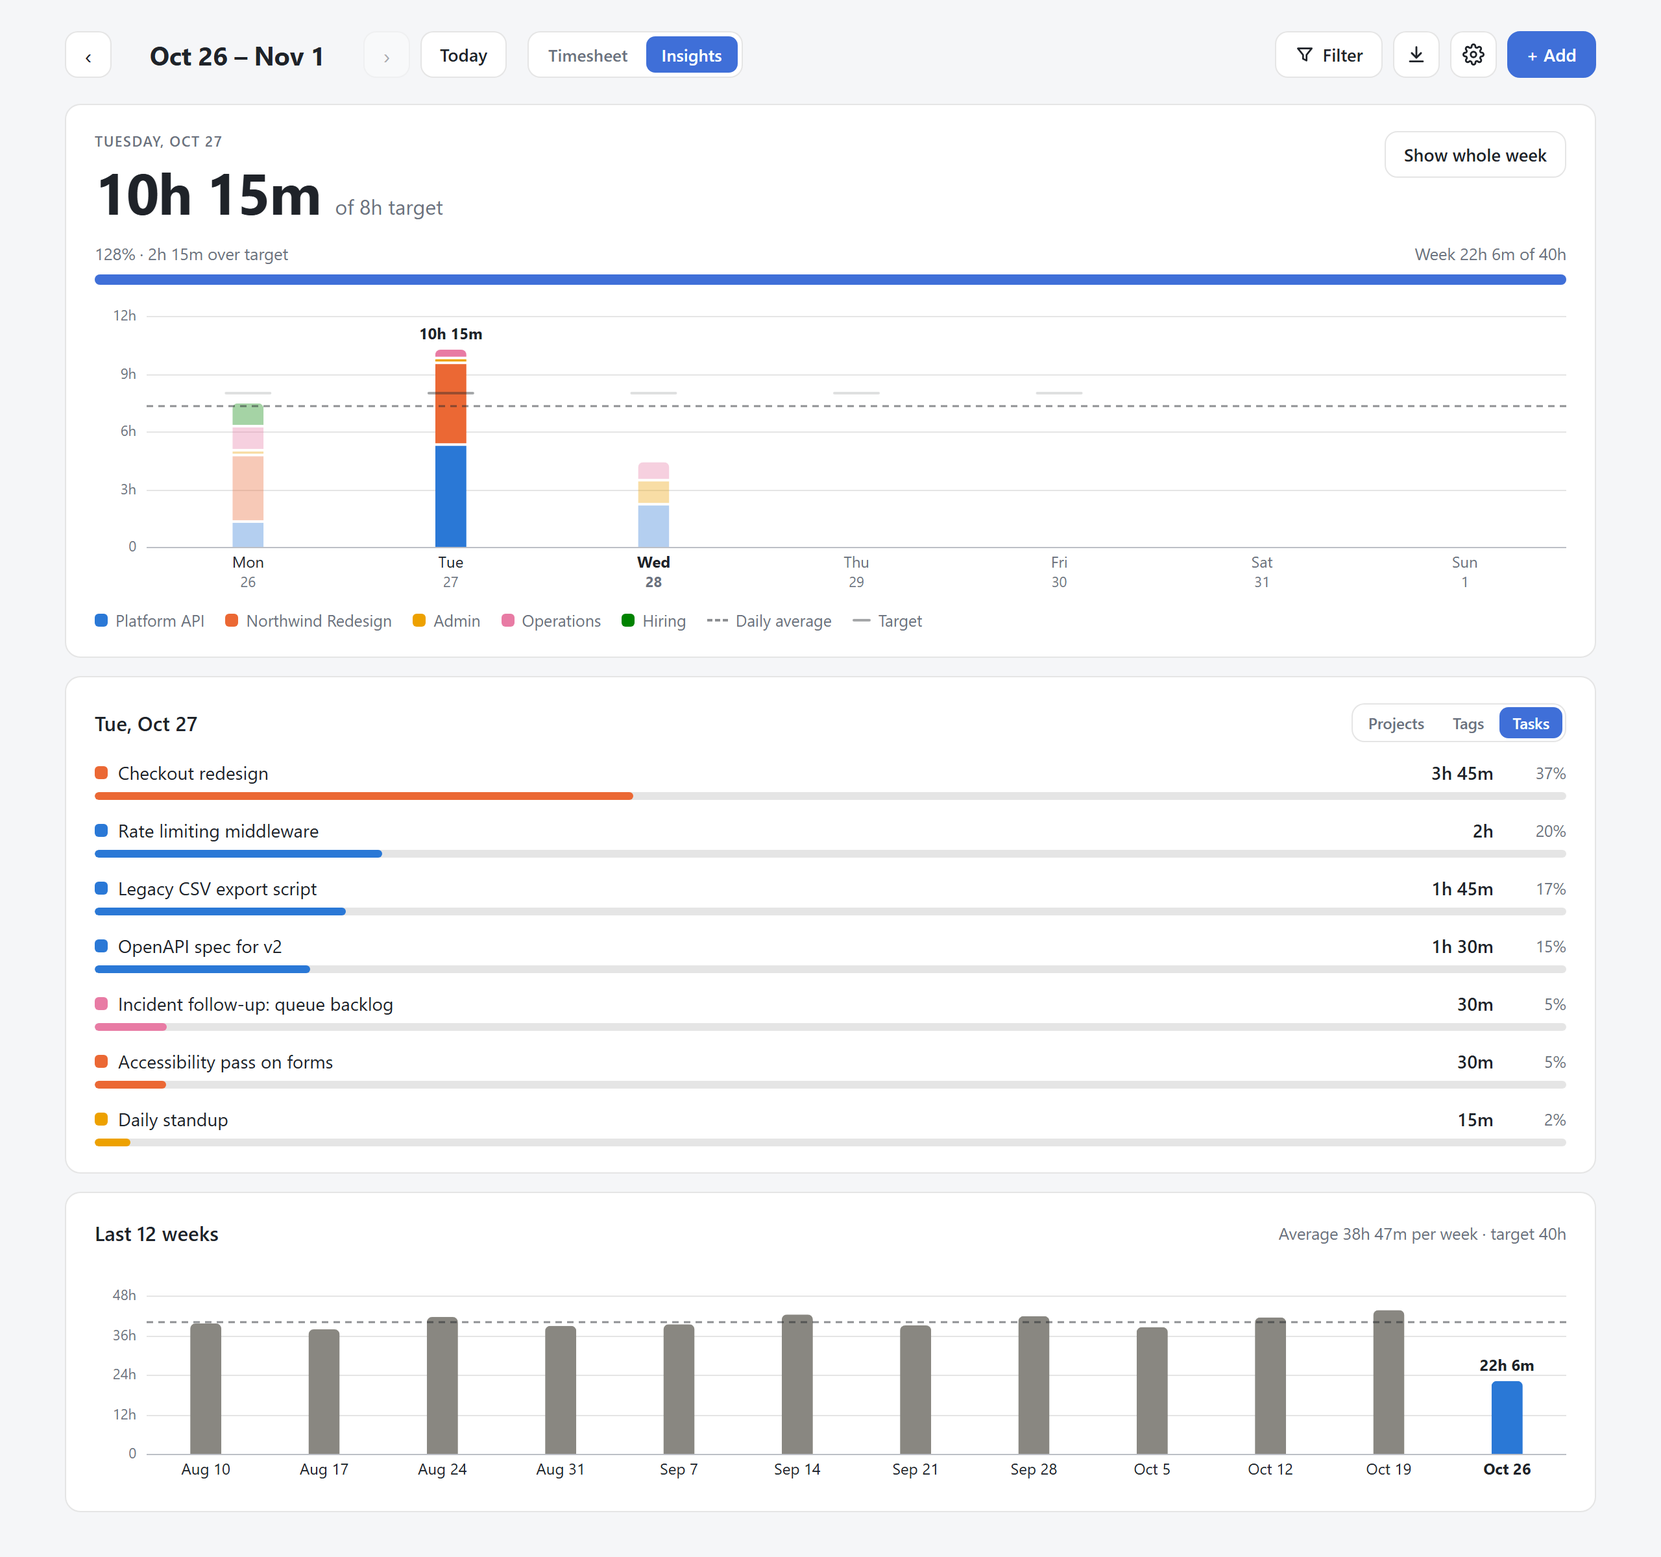
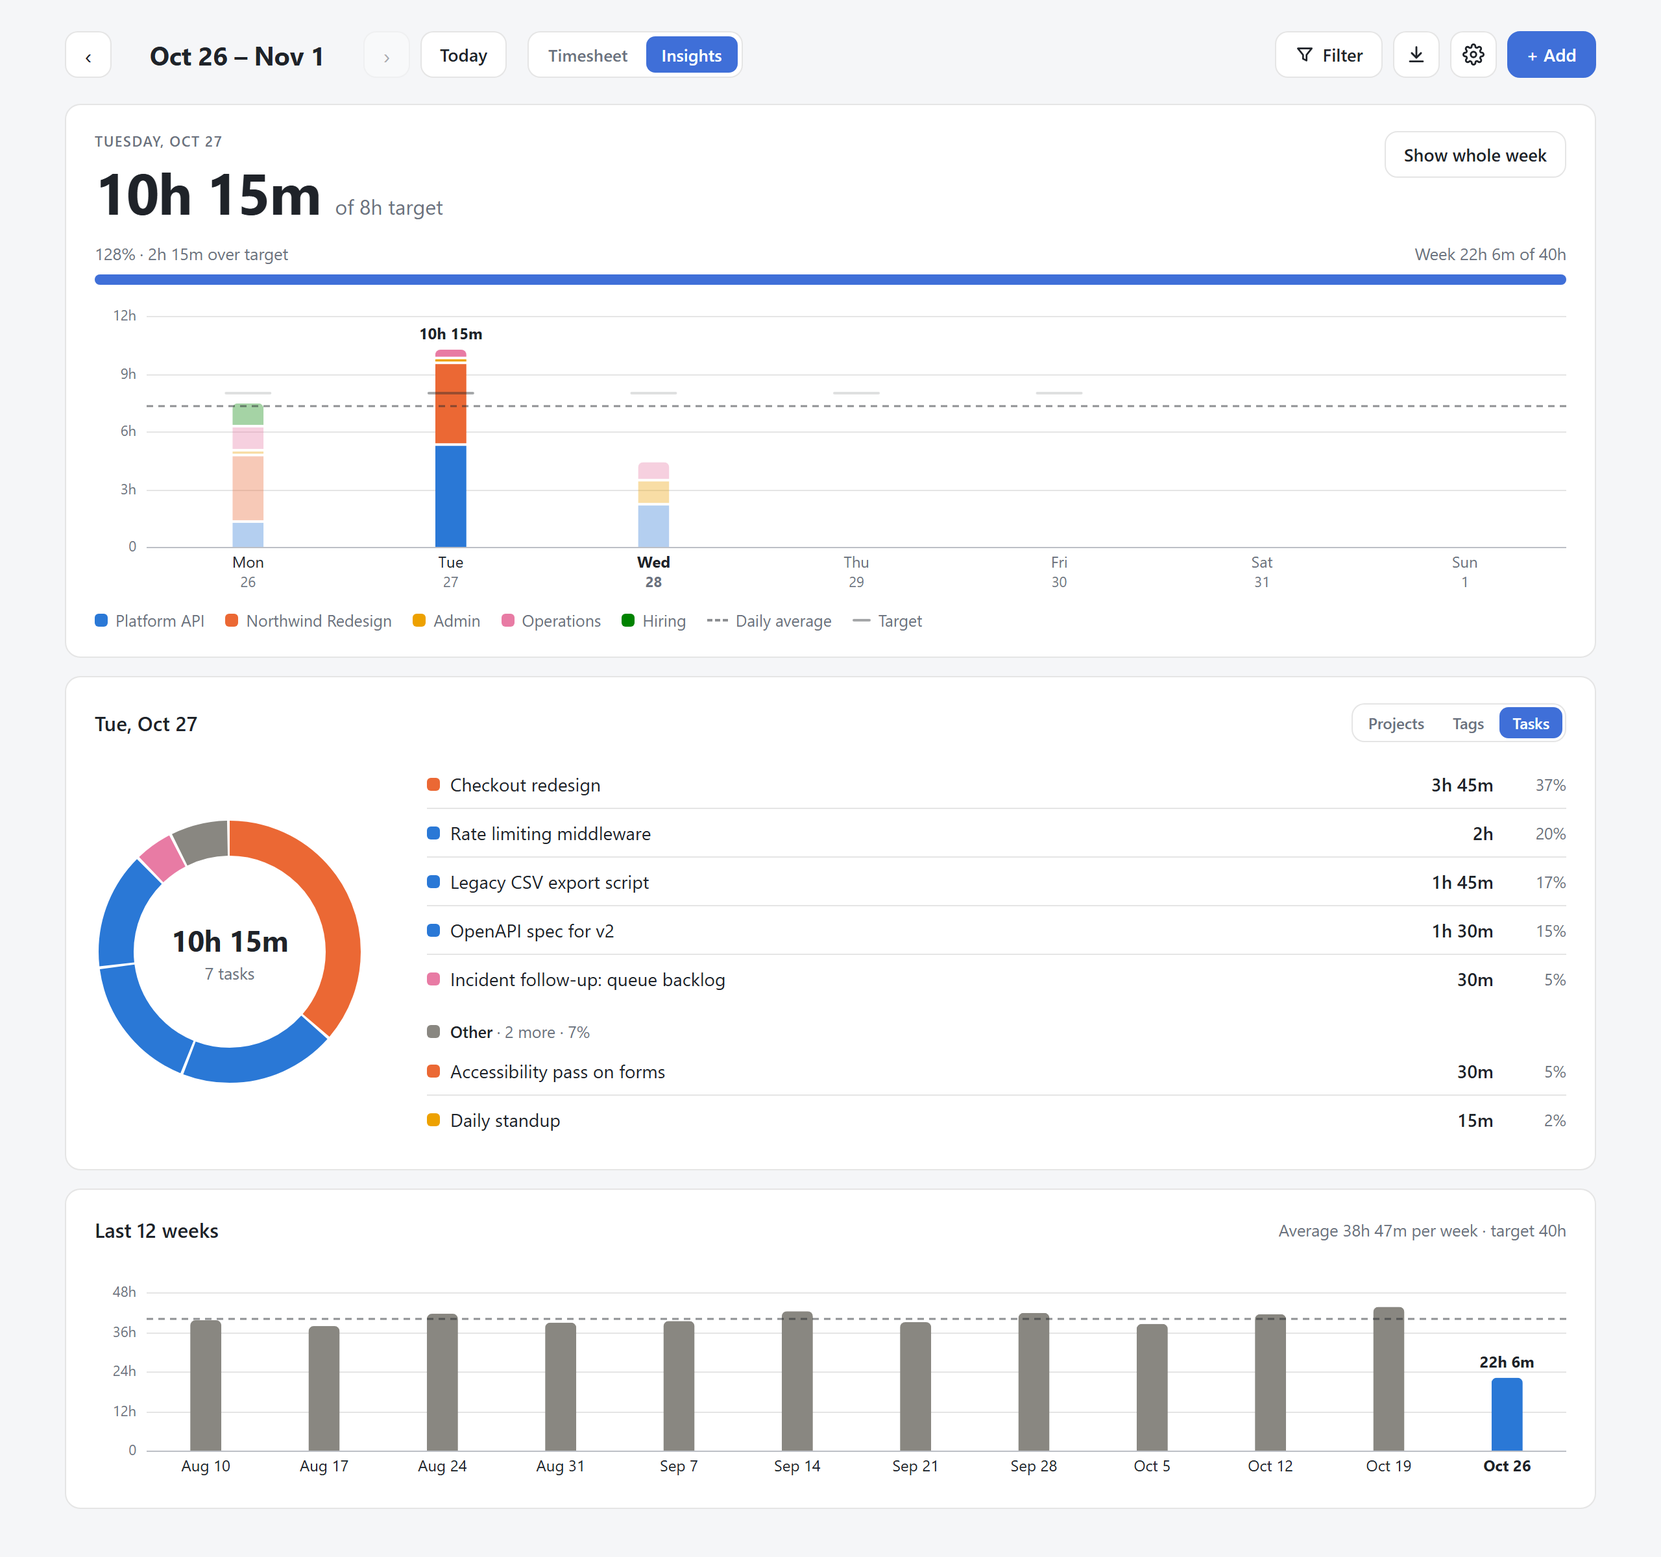
Show the Insights breakdown as a donut with its list as the legend
Projects and tasks are drawn as a donut with the total and item count in
the middle, and the list beside it becomes its legend (name, time, share;
no bars). Hovering a slice or a row lights up the other and shows that
item's time and share in the middle; on touch, a tap toggles a slice.

At most six slices: the five largest items, then an Other slice whose
items are listed under their own heading. Tags keep the bars, since a
task with several tags counts toward each and they don't add up to a
whole; a single item keeps its bar too. On phones the donut stacks above
the list.

core.donutSlices decides the split and is tested. The README screenshots
and text show the donut. Version 2.1.0.

diff --git a/src/app.js b/src/app.js
@@ -842,31 +842,69 @@
     if (refocusTrend >= 0 || trendHover >= 0) trendCtl.setHover(refocusTrend >= 0 ? refocusTrend : trendHover);
   };
 
+  // The breakdown donut: its chart and the item key behind each slice. The
+  // hovered slice is kept as a key, so it survives a redraw.
+  const DONUT_SIZE = 208;
+  const OTHER_SLICE = '\0other';
+  let donut = null;
+  let donutHoverKey = null;
+
+  // Lights up the list rows of slice i (-1 for none) and dims the rest.
+  const hoverSlice = (i) => {
+    donutHoverKey = i >= 0 && donut ? donut.keys[i] : null;
+    const list = $('breakdownList');
+    list.classList.toggle('is-linking', i >= 0);
+    for (const el of list.querySelectorAll('[data-slice]')) el.classList.toggle('is-linked', Number(el.dataset.slice) === i);
+  };
+
   const renderBreakdown = (bd, slots, day) => {
     const by = state.settings.breakdownBy;
     $('breakdownTitle').textContent = day ? C.formatDayHeading(day.date) : weekTitle();
     for (const btn of document.querySelectorAll('[data-by]')) btn.setAttribute('aria-checked', String(btn.dataset.by === by));
     $('breakdownNote').hidden = !(by === 'tag' && bd.overlapping);
 
+    // A donut shows parts of one whole. Tags can overlap (a task with two tags
+    // counts toward both) and a single item is the whole, so those keep bars.
+    const withDonut = by !== 'tag' && bd.items.length > 1;
+    $('breakdownBody').classList.toggle('has-donut', withDonut);
+    $('breakdownList').classList.toggle('has-donut', withDonut);
+    $('breakdownDonut').hidden = !withDonut;
+    if (!withDonut) {
+      donut = null;
+      $('breakdownDonut').replaceChildren();
+    }
+
     if (!bd.items.length) {
       $('breakdownList').replaceChildren(h('div', { class: 'ts-muted ts-small', text: 'No time tracked' }));
       return;
     }
+    const colorOf = (item) => (by === 'tag' ? 'var(--ts-series-1)' : seriesColor(slots, by === 'project' ? item.key : item.projectKey));
+    const labelOf = (item) => (by === 'project' ? projectName(item.key)
+      : by === 'tag' && item.key !== C.NO_TAG ? item.label || (state.tagsById[item.key] || {}).title || 'Unnamed tag'
+        : item.label);
+    const share = (ms) => (bd.total ? (ms / bd.total) * 100 : 0);
+    const shareText = (ms) => (share(ms) > 0 && share(ms) < 1 ? '<1%' : `${Math.round(share(ms))}%`);
+    const { own, otherMs, otherCount } = withDonut ? C.donutSlices(bd.items) : { own: bd.items.length, otherMs: 0, otherCount: 0 };
+
     const shown = state.breakdownExpanded ? bd.items : bd.items.slice(0, BREAKDOWN_LIMIT);
-    const rows = shown.map((item) => {
-      const color = by === 'tag' ? 'var(--ts-series-1)' : seriesColor(slots, by === 'project' ? item.key : item.projectKey);
-      const label = by === 'project' ? projectName(item.key)
-        : by === 'tag' && item.key !== C.NO_TAG ? item.label || (state.tagsById[item.key] || {}).title || 'Unnamed tag'
-          : item.label;
-      const pct = bd.total ? (item.ms / bd.total) * 100 : 0;
-      return h('div', { class: 'ts-bd-row' },
+    const rows = [];
+    shown.forEach((item, index) => {
+      // The items that share the Other slice are listed under its own heading.
+      if (withDonut && index === own) {
+        rows.push(h('div', { class: 'ts-bd-group', dataset: { slice: own } },
+          h('span', { class: 'ts-swatch', style: { background: 'var(--ts-series-other)' } }),
+          h('span', {}, h('b', { text: 'Other' }), ` · ${otherCount} more · ${shareText(otherMs)}`)));
+      }
+      const color = colorOf(item);
+      const label = labelOf(item);
+      rows.push(h('div', { class: 'ts-bd-row', dataset: withDonut ? { slice: Math.min(index, own) } : null },
         h('div', { class: 'ts-bd-name' },
           by !== 'tag' && h('span', { class: 'ts-swatch', style: { background: color } }),
           h('span', { class: 'ts-bd-label', text: label, title: label })),
         h('div', { class: 'ts-bd-time', text: fmt(item.ms) }),
-        h('div', { class: 'ts-bd-pct', text: pct > 0 && pct < 1 ? '<1%' : `${Math.round(pct)}%` }),
-        h('div', { class: 'ts-bd-track', 'aria-hidden': 'true' },
-          h('div', { class: 'ts-bd-fill', style: { width: `${Math.min(100, pct)}%`, background: color } })));
+        h('div', { class: 'ts-bd-pct', text: shareText(item.ms) }),
+        !withDonut && h('div', { class: 'ts-bd-track', 'aria-hidden': 'true' },
+          h('div', { class: 'ts-bd-fill', style: { width: `${Math.min(100, share(item.ms))}%`, background: color } }))));
     });
     if (bd.items.length > BREAKDOWN_LIMIT) {
       rows.push(h('button', {
@@ -877,6 +915,28 @@
       }));
     }
     $('breakdownList').replaceChildren(...rows);
+    if (!withDonut) return;
+
+    const slices = bd.items.slice(0, own).map((item) => ({ ms: item.ms, color: colorOf(item), label: labelOf(item) }));
+    if (otherCount) slices.push({ ms: otherMs, color: 'var(--ts-series-other)', label: 'Other' });
+    const [one, many] = by === 'task' ? ['task', 'tasks'] : ['project', 'projects'];
+    const count = bd.items.length;
+    donut = {
+      keys: slices.map((_, i) => (i < own ? bd.items[i].key : OTHER_SLICE)),
+      ctl: TimesheetCharts.donutChart($('breakdownDonut'), {
+        size: DONUT_SIZE,
+        slices,
+        center: (i) => (i < 0
+          ? { value: fmt(bd.total), label: `${count} ${count === 1 ? one : many}` }
+          : { value: fmt(slices[i].ms), label: slices[i].label, note: shareText(slices[i].ms) }),
+        ariaLabel: `Time by ${one}: ${slices.map((s) => `${s.label} ${shareText(s.ms)}`).join(', ')}`,
+        onHover: hoverSlice,
+      }),
+    };
+    // Put a hover back after a redraw (a running timer redraws every minute).
+    const restore = donutHoverKey == null ? -1 : donut.keys.indexOf(donutHoverKey);
+    donut.ctl.setHover(restore);
+    hoverSlice(restore);
   };
 
   // The filters sit in a popover, so the button shows what's active: a count,
@@ -1274,6 +1334,19 @@
       if (!e.target.closest('[data-action="toggle-breakdown"]')) return;
       state.breakdownExpanded = !state.breakdownExpanded;
       renderInsights();
+    });
+    // Hovering a row lights up its slice, as hovering a slice lights up its rows.
+    $('breakdownList').addEventListener('pointerover', (e) => {
+      if (!donut || e.pointerType === 'touch') return;
+      const el = e.target.closest('[data-slice]');
+      const i = el ? Number(el.dataset.slice) : -1;
+      donut.ctl.setHover(i);
+      hoverSlice(i);
+    });
+    $('breakdownList').addEventListener('pointerleave', (e) => {
+      if (!donut || e.pointerType === 'touch') return;
+      donut.ctl.setHover(-1);
+      hoverSlice(-1);
     });
     $('showWeekBtn').addEventListener('click', () => {
       state.chartSelected = null;

diff --git a/src/charts.js b/src/charts.js
@@ -216,5 +216,108 @@ const TimesheetCharts = (() => {
     };
   };
 
-  return { columnChart };
+  /**
+   * Draws a donut into `host`, replacing what was there: slices clockwise from
+   * 12 o'clock with a surface gap between them, and text in the middle that
+   * describes the whole or the hovered slice.
+   *
+   * opts:
+   *   size                outer diameter (px)
+   *   slices              [{ ms, color }]
+   *   center(i)           { value, label, note } for the middle; i = -1 for the whole
+   *   ariaLabel           the chart in words
+   *   onHover(i)          i = -1 when the pointer leaves
+   *
+   * Returns { setHover(i) } so a legend can light up its slice.
+   */
+  const donutChart = (host, opts) => {
+    const { size, slices } = opts;
+    const mid = size / 2;
+    const thickness = Math.round(size * 0.13);
+    const GROW = 3; // a hovered slice widens by this much on each side
+    const r = mid - thickness / 2 - GROW;
+    const circumference = 2 * Math.PI * r;
+    const total = slices.reduce((sum, s) => sum + s.ms, 0);
+
+    const root = svg('svg', { width: size, height: size, viewBox: `0 0 ${size} ${size}`, class: 'ts-svg' });
+    const ring = svg('g', { transform: `rotate(-90 ${mid} ${mid})` });
+    let start = 0;
+    const arcs = slices.map((slice) => {
+      const len = total > 0 ? (slice.ms / total) * circumference : 0;
+      const gap = slices.length > 1 ? Math.min(GAP, len / 2) : 0;
+      const arc = svg('circle', {
+        class: 'ts-slice',
+        cx: mid,
+        cy: mid,
+        r,
+        fill: 'none',
+        style: `stroke:${slice.color}`,
+        'stroke-width': thickness,
+        'stroke-dasharray': `${len - gap} ${circumference}`,
+        'stroke-dashoffset': -start,
+      });
+      start += len;
+      return arc;
+    });
+    ring.append(...arcs);
+    root.append(ring);
+
+    const el = (cls) => Object.assign(document.createElement('div'), { className: cls });
+    const wrap = el('ts-donut');
+    wrap.style.width = wrap.style.height = `${size}px`;
+    wrap.setAttribute('role', 'img');
+    wrap.setAttribute('aria-label', opts.ariaLabel);
+    const middle = el('ts-donut-center');
+    middle.setAttribute('aria-hidden', 'true');
+    middle.style.padding = `0 ${Math.round(thickness + GROW + 10)}px`;
+    const value = el('ts-donut-value');
+    const label = el('ts-donut-label');
+    const note = el('ts-donut-note');
+    middle.append(value, label, note);
+    wrap.append(root, middle);
+
+    let hovered = -1;
+    const setHover = (i) => {
+      if (hovered >= 0 && arcs[hovered]) {
+        arcs[hovered].classList.remove('is-hover');
+        arcs[hovered].setAttribute('stroke-width', thickness);
+      }
+      hovered = arcs[i] ? i : -1;
+      wrap.classList.toggle('is-hover', hovered >= 0);
+      if (hovered >= 0) {
+        arcs[hovered].classList.add('is-hover');
+        arcs[hovered].setAttribute('stroke-width', thickness + GROW * 2);
+      }
+      const text = opts.center(hovered);
+      value.textContent = text.value;
+      label.textContent = text.label;
+      note.textContent = text.note || '';
+      note.hidden = !text.note;
+    };
+    const hover = (i) => {
+      setHover(i);
+      if (opts.onHover) opts.onHover(hovered);
+    };
+
+    // Mouse hover; on touch, a tap shows a slice and a second tap clears it.
+    let lastPointer = '';
+    arcs.forEach((arc, i) => {
+      arc.addEventListener('pointerdown', (e) => { lastPointer = e.pointerType; });
+      arc.addEventListener('pointerenter', (e) => {
+        if (e.pointerType !== 'touch') hover(i);
+      });
+      arc.addEventListener('click', () => {
+        if (lastPointer === 'touch') hover(hovered === i ? -1 : i);
+      });
+    });
+    root.addEventListener('pointerleave', (e) => {
+      if (e.pointerType !== 'touch') hover(-1);
+    });
+
+    setHover(-1);
+    host.replaceChildren(wrap);
+    return { setHover };
+  };
+
+  return { columnChart, donutChart };
 })();

diff --git a/src/styles.css b/src/styles.css
@@ -374,9 +374,47 @@ button { cursor: pointer; }
 .ts-bd-fill { height: 100%; border-radius: 999px; transition: width 0.3s ease; }
 .ts-bd-more { justify-self: start; }
 
+/* With a donut, the list is its legend: no bars, a divider between rows. */
+.ts-bd-body.has-donut { display: grid; grid-template-columns: auto minmax(0, 1fr); gap: 48px; align-items: center; }
+.ts-breakdown.has-donut { gap: 0; }
+.ts-breakdown.has-donut .ts-bd-row { padding: 9px 0; }
+.ts-breakdown.has-donut .ts-bd-row + .ts-bd-row { border-top: 1px solid var(--ts-divider); }
+.ts-breakdown.has-donut .ts-bd-more { margin-top: 10px; }
+.ts-bd-body + .ts-hint { margin: 14px 0 0; }
+.ts-bd-group { display: flex; align-items: center; gap: 8px; padding: 14px 0 4px; font-size: 0.78rem; color: var(--ts-muted); }
+.ts-bd-group b { font-weight: 600; color: var(--ts-text); }
+.ts-breakdown [data-slice] { transition: opacity 0.2s ease; }
+.ts-breakdown.is-linking [data-slice]:not(.is-linked) { opacity: 0.4; }
+
+.ts-donut { position: relative; }
+.ts-slice { transition: opacity 0.2s ease, stroke-width 0.15s ease; }
+.ts-donut.is-hover .ts-slice:not(.is-hover) { opacity: 0.35; }
+.ts-donut-center {
+  position: absolute;
+  inset: 0;
+  display: flex;
+  flex-direction: column;
+  align-items: center;
+  justify-content: center;
+  text-align: center;
+  pointer-events: none;
+}
+.ts-donut-value { font-size: 1.4rem; font-weight: 700; font-variant-numeric: tabular-nums; letter-spacing: -0.01em; }
+.ts-donut-label {
+  margin-top: 2px;
+  font-size: 0.8rem;
+  color: var(--ts-muted);
+  display: -webkit-box;
+  -webkit-line-clamp: 2;
+  -webkit-box-orient: vertical;
+  overflow: hidden;
+  overflow-wrap: anywhere;
+}
+.ts-donut-note { font-size: 0.8rem; font-weight: 600; font-variant-numeric: tabular-nums; }
+
 @media (prefers-reduced-motion: reduce) {
   .ts-grow { animation: none; }
-  .ts-col, .ts-col-band, .ts-bd-fill, .ts-progress-fill, .ts-goal-fill { transition: none; }
+  .ts-col, .ts-col-band, .ts-bd-fill, .ts-progress-fill, .ts-goal-fill, .ts-slice, .ts-breakdown [data-slice] { transition: none; }
 }
 
 /* ---------- Day cards ---------- */
@@ -591,6 +629,8 @@ button { cursor: pointer; }
   .ts-row > .ts-tags { display: none; }
   .ts-stats { gap: 20px; }
   .ts-card { padding: 16px 14px; }
+  .ts-bd-body.has-donut { grid-template-columns: minmax(0, 1fr); gap: 16px; justify-items: center; }
+  .ts-bd-body.has-donut .ts-breakdown { justify-self: stretch; }
   .ts-hero { font-size: 2.25rem; }
   /* Icon-only Filter and Add, so the view switch and actions share a row. */
   .ts-header { gap: 10px; }

diff --git a/src/core.js b/src/core.js
@@ -555,6 +555,16 @@ const TimesheetCore = (() => {
     return { total, overlapping, items: sorted };
   };
 
+  // A donut stays readable up to six slices: with more items, the first five
+  // (largest) get their own slice and the rest share one. `own` is how many
+  // items have their own slice; `otherMs` and `otherCount` describe the shared one.
+  const DONUT_SLICES = 6;
+  const donutSlices = (items, max = DONUT_SLICES) => {
+    const own = items.length > max ? max - 1 : items.length;
+    const rest = items.slice(own);
+    return { own, otherMs: rest.reduce((sum, item) => sum + item.ms, 0), otherCount: rest.length };
+  };
+
   // Axis maximum and ticks on readable hour steps (0, 2h, 4h, 6h...), with at
   // most `maxSteps` steps and at least 1h of range.
   const HOUR_STEPS = [0.25, 0.5, 1, 2, 3, 4, 6, 8, 12, 24, 48, 96];
@@ -1041,6 +1051,7 @@ const TimesheetCore = (() => {
     compareWithPreviousWeek,
     weekProgress,
     breakdown,
+    donutSlices,
     hourScale,
     buildCsv,
     encodeState,

diff --git a/src/index.html b/src/index.html
@@ -94,7 +94,10 @@
           <button type="button" role="radio" data-by="task">Tasks</button>
         </div>
       </div>
-      <div class="ts-breakdown" id="breakdownList"></div>
+      <div class="ts-bd-body" id="breakdownBody">
+        <div class="ts-bd-donut" id="breakdownDonut" hidden></div>
+        <div class="ts-breakdown" id="breakdownList"></div>
+      </div>
       <p class="ts-hint" id="breakdownNote" hidden>A task with several tags counts toward each of them, so these can add up to more than the total.</p>
     </section>
 

diff --git a/README.md b/README.md
@@ -5,7 +5,7 @@ A weekly timesheet and charts for the time you track in [Super Productivity](htt
 <picture>
   <source media="(prefers-color-scheme: dark)" srcset="docs/images/insights-dark.png">
   <source media="(prefers-color-scheme: light)" srcset="docs/images/insights-light.png">
-  <img alt="The Insights view: a week of tracked time as stacked columns by project, progress toward a 40-hour target, a breakdown by project, and weekly totals for the last 12 weeks." src="docs/images/insights-light.png">
+  <img alt="The Insights view: a week of tracked time as stacked columns by project, progress toward a 40-hour target, a donut of time by project with its list, and weekly totals for the last 12 weeks." src="docs/images/insights-light.png">
 </picture>
 
 <sub>Screenshots show a generated demo workload of nine projects over twelve weeks (see [Screenshots and demo data](#screenshots-and-demo-data)).</sub>
@@ -24,7 +24,7 @@ A weekly timesheet and charts for the time you track in [Super Productivity](htt
 
 - The week as one stacked column per day, colored by project, with a daily-average line and a mark at each day's target.
 - Progress toward the weekly target, with a pace marker that shows where you would be if every day so far had met its target. Alongside it: average per active day, time left to target, days on target, and the change against the previous week.
-- A breakdown of the week, or of one selected day, by project, tag or task.
+- A breakdown of the week, or of one selected day, by project, tag or task. Projects and tasks are shown as a donut with the list as its legend; hover a slice or a row to see its time and share.
 - Weekly totals for the last 12 weeks against the weekly target.
 
 **Throughout**
@@ -43,7 +43,7 @@ A weekly timesheet and charts for the time you track in [Super Productivity](htt
       <p><b>Timesheet.</b> Subtasks are listed under their parent. Manual entries and deleted tasks are labelled.</p>
     </td>
     <td width="50%" valign="top">
-      <img src="docs/images/day-selected-light.png" alt="Insights with Tuesday selected: the other days are faded and the breakdown lists the day's tasks.">
+      <img src="docs/images/day-selected-light.png" alt="Insights with Tuesday selected: the other days are faded and a donut with its list breaks the day down by task.">
       <p><b>A selected day.</b> The headline and breakdown switch to that day; here the breakdown is by task.</p>
     </td>
   </tr>

diff --git a/CHANGELOG.md b/CHANGELOG.md
@@ -1,5 +1,10 @@
 # Changelog
 
+## 2.1.0
+
+### Added
+- The Insights breakdown shows projects and tasks as a donut, with the total in the middle and the list beside it as its legend. Hovering a slice or a row lights up the other, and the middle shows that item's time and share; on a touchscreen, tap a slice. The five largest items get their own slice and the rest share an "Other" slice, listed under their own heading. Tags keep the bars, since a task with several tags counts toward each.
+
 ## 2.0.1
 
 ### Fixed
